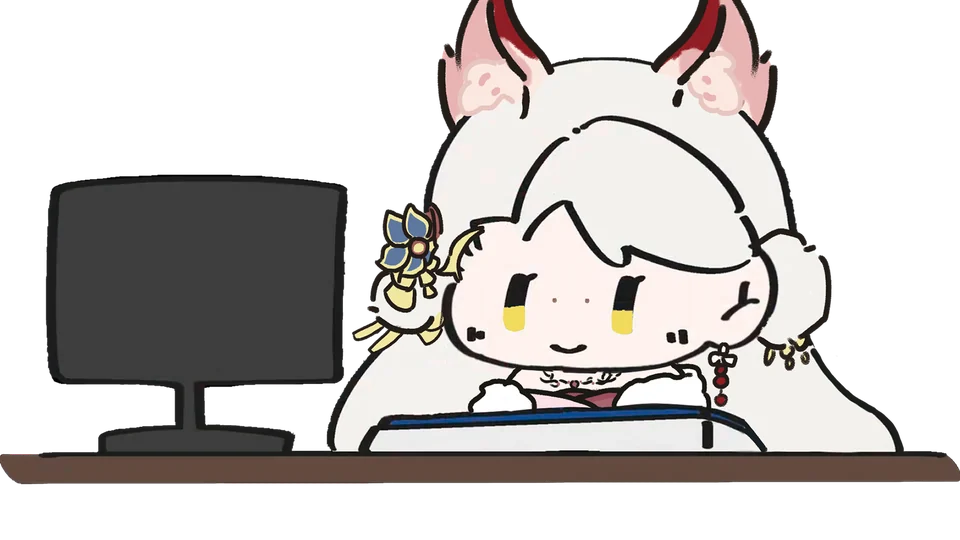
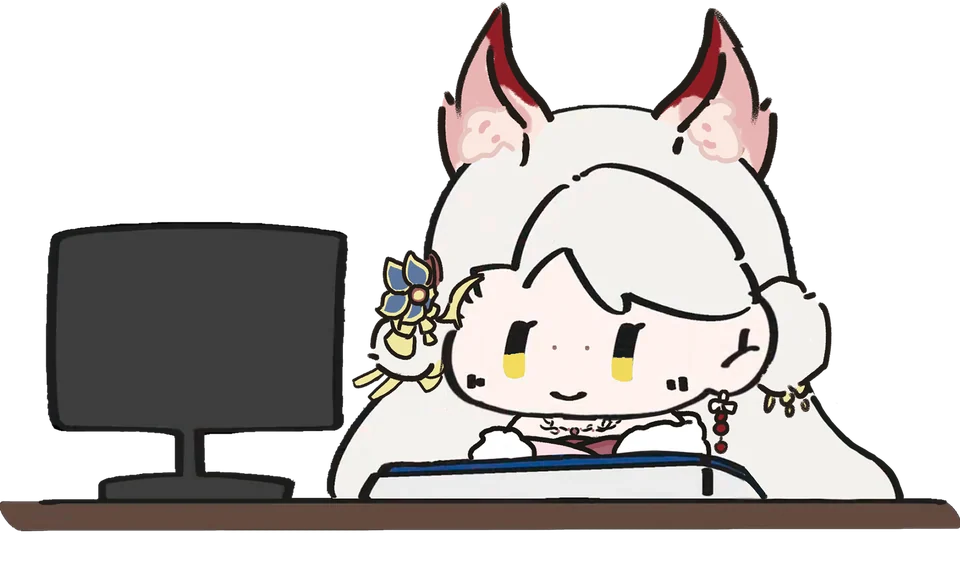
feat: 嘉然原皮和三款皮肤换成新版立绘，桌宠头饰超出画布顶部时不再被裁掉
- 嘉然原皮、嘉然2025生日、嘉然山海经、嘉然睡衣派对换成新版（脸、线条、发色重画），清掉修图留下的散点。原皮和2025生日的新图比旧图小，放大 1.2 倍、平移 (-96, -107) 对齐旧图的显示器和桌面，键盘、鼠标图层不变
- 乃琳山海经、贝拉2025生日、贝拉睡衣派对当初对齐成员画布时裁掉了超出顶部的耳朵和头饰，从原图补回；画布内像素不变
- 超出部分把图片向上加高：PetView 按画布宽度显示、底部对齐，PetBust 详情图按宽度适配、底部对齐；HEADS 按新图量出头顶，可以为负
- build_previews.py 按宽度缩放，头像按底部对齐的画布裁切

Changed region(s): [[0.0, 0.0, 1.0, 0.9185]]

diff --git a/client/src/pet/PetView.vue b/client/src/pet/PetView.vue
@@ -87,7 +87,7 @@ const bubbleAnchor = computed(() => ({
 <template>
   <div class="pet" :class="{ 'smooth-mouse': smoothMouse }" :style="box">
     <div v-if="assets" class="art">
-      <img class="layer bg" :src="scale <= 1 ? assets.bgSmall : scale <= 2 ? assets.bgMedium : assets.bg" :style="box" draggable="false" alt="" />
+      <img class="layer bg" :src="scale <= 1 ? assets.bgSmall : scale <= 2 ? assets.bgMedium : assets.bg" :style="{ width: box.width }" draggable="false" alt="" />
       <img class="layer kb" :class="{ down: pressed }" :src="assets.keyboard" :style="kbStyle" draggable="false" alt="" />
       <img class="layer mouse" :src="assets.mouse" :style="mouseStyle" draggable="false" alt="" />
       <span v-if="leftDown" class="layer mouse click" :style="[mouseStyle, clickMask(assets.leftClick), { backgroundColor: clickColor }]" />
@@ -104,7 +104,8 @@ const bubbleAnchor = computed(() => ({
 .pet { position: relative; user-select: none; }
 .art { position: absolute; inset: 0; }
 .layer { position: absolute; pointer-events: none; }
-.bg { left: 0; top: 0; }
+/* Width only, bottom-aligned: a picture taller than the canvas holds headwear above it and draws past the top. */
+.bg { left: 0; bottom: 0; height: auto; }
 .kb { transition: transform var(--dur-fast) var(--ease-pop); }
 .kb.down { transition: transform 50ms var(--ease-out); }
 .smooth-mouse .mouse { transition: transform 60ms linear; }

diff --git a/client/src/characters.ts b/client/src/characters.ts
@@ -79,18 +79,21 @@ export const PET_BASE = {
 
 // Top of each character's head on the base canvas (measured from bgImage.webp).
 // Head accessories sit here and emote bubbles grow from its upper right.
+// Negative when the picture is taller than the canvas and the headwear reaches above it.
 const HEADS: Record<string, { x: number; y: number }> = {
-  嘉然: { x: 152, y: 10 },
+  嘉然: { x: 152, y: -4 },
   乃琳: { x: 150, y: 18 },
   贝拉: { x: 146, y: 10 },
   心宜: { x: 152, y: 10 },
   思诺: { x: 142, y: 9 },
-  // Skins drawn on the member's layout whose ears or headwear reach the top edge.
-  乃琳山海经: { x: 150, y: 0 },
+  // Skins drawn on the member's layout whose head top differs from the member's.
+  乃琳山海经: { x: 150, y: -11 },
   乃琳睡衣派对: { x: 150, y: 0 },
-  嘉然2025生日: { x: 152, y: 0 },
-  贝拉2025生日: { x: 146, y: 0 },
-  贝拉睡衣派对: { x: 146, y: 0 },
+  嘉然山海经: { x: 152, y: 10 },
+  嘉然睡衣派对: { x: 152, y: 10 },
+  嘉然2025生日: { x: 152, y: -2 },
+  贝拉2025生日: { x: 146, y: -10 },
+  贝拉睡衣派对: { x: 146, y: -9 },
 };
 export function headAnchor(name: string): { x: number; y: number } {
   return HEADS[name] ?? HEADS[memberOf(name)] ?? { x: 150, y: 10 };

diff --git a/client/src/panel/PetBust.vue b/client/src/panel/PetBust.vue
@@ -6,6 +6,9 @@ defineProps<{
   /** Detail and reveal views use the original artwork. Thumbnails keep the 264px face crop. */
   detail?: boolean;
 }>();
+/** Room above the canvas for pictures whose headwear reaches past its top, in canvas units.
+ *  A picture taller than this would be fitted by height and drift off the canvas. */
+const TALL = 60;
 </script>
 
 <template>
@@ -23,7 +26,11 @@ defineProps<{
       overflow="hidden"
     >
       <image v-if="!detail && portraitFor(src)" :href="portraitFor(src)" :x="FACE_CROP.x" :y="FACE_CROP.y" :width="FACE_CROP.w" :height="FACE_CROP.h" />
-      <image v-else :href="src" x="0" y="0" :width="PET_BASE.width" :height="PET_BASE.height" />
+      <!-- Fit by width and align bottoms, so a taller picture puts its canvas part on y 0..135. -->
+      <image
+        v-else :href="src" x="0" :y="-TALL" :width="PET_BASE.width" :height="PET_BASE.height + TALL"
+        preserveAspectRatio="xMidYMax meet"
+      />
     </svg>
   </svg>
 </template>

diff --git a/scripts/build_previews.py b/scripts/build_previews.py
@@ -24,6 +24,11 @@ def save(im: Image.Image, out: Path, size: tuple[int, int]) -> None:
     im.save(out, "WEBP", quality=86, method=6)
 
 
+def save_width(im: Image.Image, out: Path, width: int) -> None:
+    """Scale to a fixed width. Pet pictures taller than the canvas keep their extra height."""
+    save(im, out, (width, 1 << 16))
+
+
 def build_emote_covers(manifest: dict) -> int:
     count = 0
     for group in manifest["emoteSets"]:
@@ -47,11 +52,13 @@ def build_pet_previews() -> int:
     for source in sorted(CHARACTERS.glob("*/bgImage.webp")):
         out = PREVIEWS / source.parent.name
         with Image.open(source) as im:
-            save(im, out / "bg-480.webp", (480, 270))
-            save(im, out / "bg-960.webp", (960, 540))
-            # Same crop as FACE_CROP in characters.ts, measured on a 240x135 canvas.
-            crop = im.crop((round(im.width * 90 / 240), 0,
-                            round(im.width * 222 / 240), round(im.height * 112 / 135)))
+            save_width(im, out / "bg-480.webp", 480)
+            save_width(im, out / "bg-960.webp", 960)
+            # Same crop as FACE_CROP in characters.ts, measured on a 240x135 canvas. The pet is
+            # drawn bottom-aligned at the canvas width, so rows above the 16:9 canvas are headroom.
+            top = max(0, round(im.height - im.width * 135 / 240))
+            crop = im.crop((round(im.width * 90 / 240), top,
+                            round(im.width * 222 / 240), top + round((im.height - top) * 112 / 135)))
             save(crop, out / "face.webp", (264, 224))
         count += 1
     return count

diff --git a/ASSETS.md b/ASSETS.md
@@ -31,12 +31,15 @@ assets-packs/
 
 ## 桌宠皮肤
 
-在 `client/src/assets/characters/` 下新建以成员名开头的文件夹（如 `贝拉山海经/`），放入透明背景的 `bgImage.png`，构图与成员原皮保持一致。
+在 `client/src/assets/characters/` 下新建以成员名开头的文件夹（如 `贝拉山海经/`），放入透明背景的 `bgImage.webp`（无损 WebP），宽度与成员原皮相同，显示器、桌面和键盘位置与成员原皮对齐。
 
 - 键盘、鼠标、点击图层可省略，缺失时沿用成员原皮；点击图层以原图透明度作遮罩，颜色取成员应援色。主题色、初始表情和头部位置跟随成员，特殊构图在 `characters.ts` 的 `HEADS` 中配置头部位置。
+- 耳朵、头饰超出成员画布顶部时，把图片向上加高，不要裁掉。桌宠按画布宽度显示、底部对齐，加高的部分画在画布上方，`HEADS` 的 y 为负数。换图后运行 `scripts/build_previews.py`。
 - 在 `scripts/asset_catalog.py` 的 `SKINS` 中增加名称和所属 member，重新生成两份 manifest。皮肤随客户端发布，并自动进入此间共鸣池。对方客户端缺少该皮肤素材时显示成员原皮。
 
-画师修正版已替换乃琳山海经、乃琳睡衣派对、贝拉睡衣派对，并新增贝拉2025生日。透明 PNG 保留 alpha 通道。乃琳山海经、贝拉2025生日、贝拉睡衣派对按显示器和桌面对齐成员原皮，整体放大约 1.08–1.11 倍后输出为与成员相同的 1920×1079 画布，键盘、鼠标图层因此落在原位；超出画布的耳朵尖等内容被裁掉。睡衣乃琳沿用画师提供的 1920×1079 原图。嘉然2025生日的原图是 2400×1800，构图与嘉然原皮相同，按桌面和显示器对齐后缩小到 0.5333 倍，裁成与嘉然相同的 1280×720 画布；乃琳2025生日的原图与乃琳原皮同为 1920×1079，桌面和显示器位置一致，直接使用。
+画师修正版已替换乃琳山海经、乃琳睡衣派对、贝拉睡衣派对，并新增贝拉2025生日。乃琳山海经、贝拉2025生日、贝拉睡衣派对按显示器和桌面对齐成员原皮，宽 1920，下方 1079 行与成员画布一致；上方加高 79–95 行，放下超出画布的耳朵和头饰（2026-11-09 从 2400×1800 原图补回，此前被裁掉）。睡衣乃琳沿用画师提供的 1920×1079 原图，耳朵贴近顶边，原图上方没有更多内容。乃琳2025生日的原图与乃琳原皮同为 1920×1079，桌面和显示器位置一致，直接使用。
+
+嘉然原皮和嘉然2025生日于 2026-11-09 换成新版立绘，脸、线条和发色都重画了。新图为 1280×720，人物和桌面比旧图小，放大 1.2 倍、平移 (-96, -107) 后与旧图的显示器和桌面对齐，键盘、鼠标图层不变；顶部分别加高 25 行和 17 行，放下蝴蝶结和帽子。嘉然山海经、嘉然睡衣派对同日换成新版，新图与旧图位置相同，直接使用。
 
 ## 构建脚本
 
